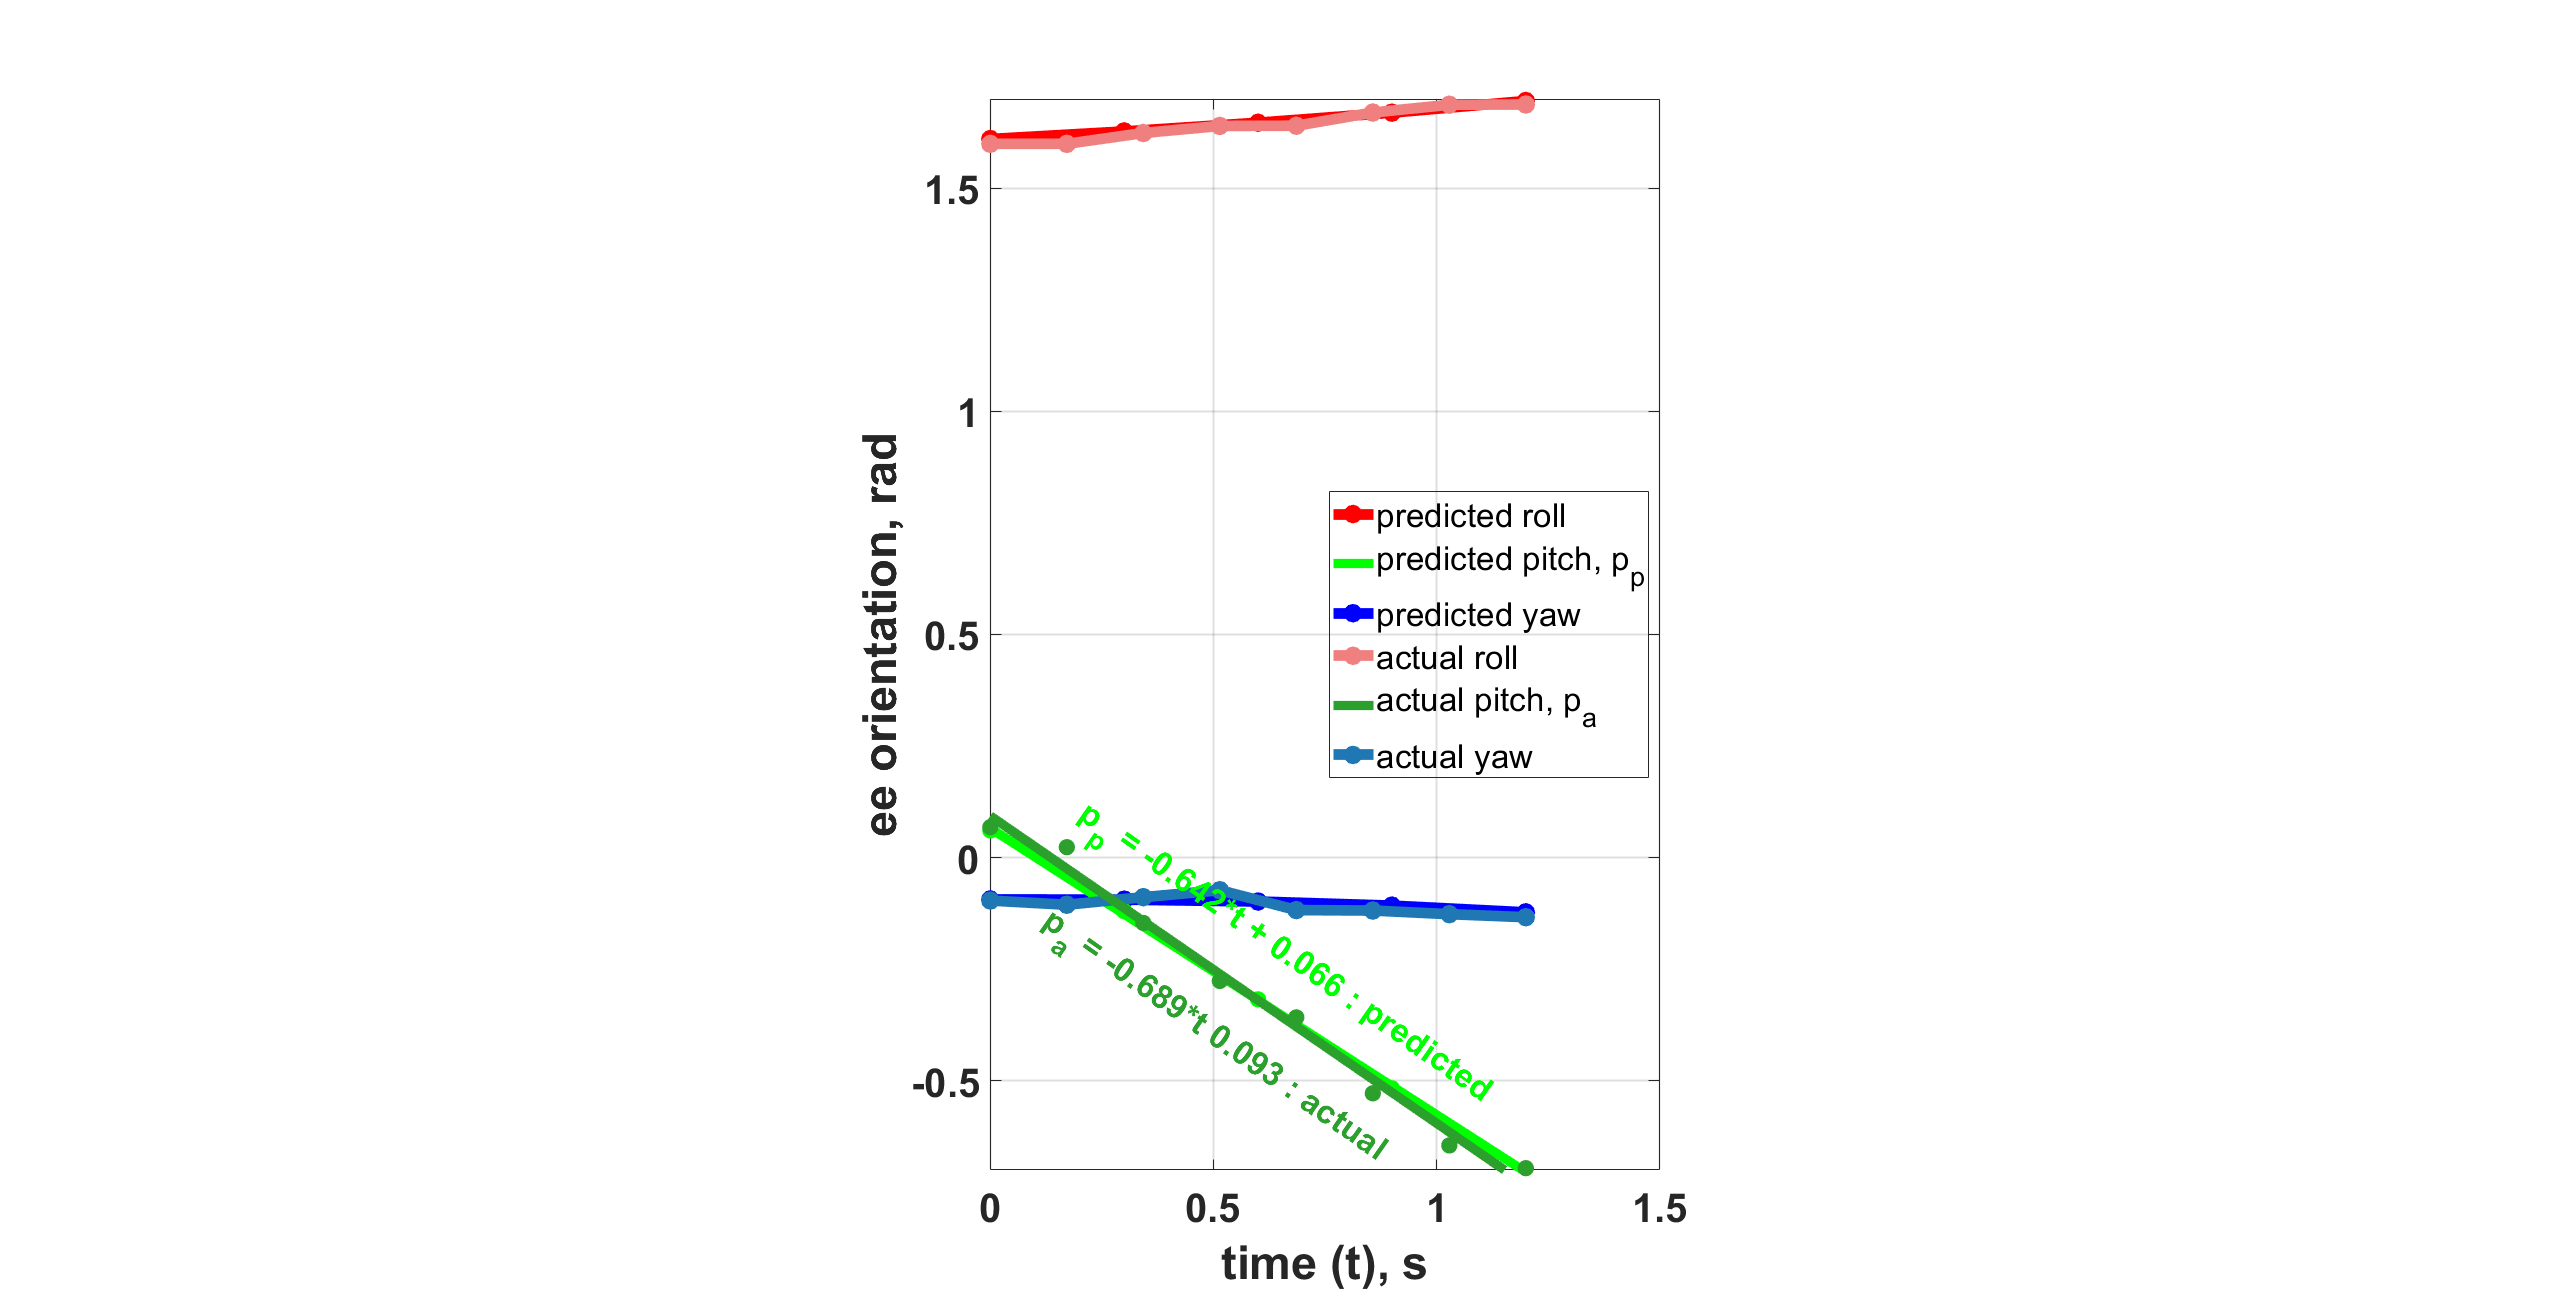
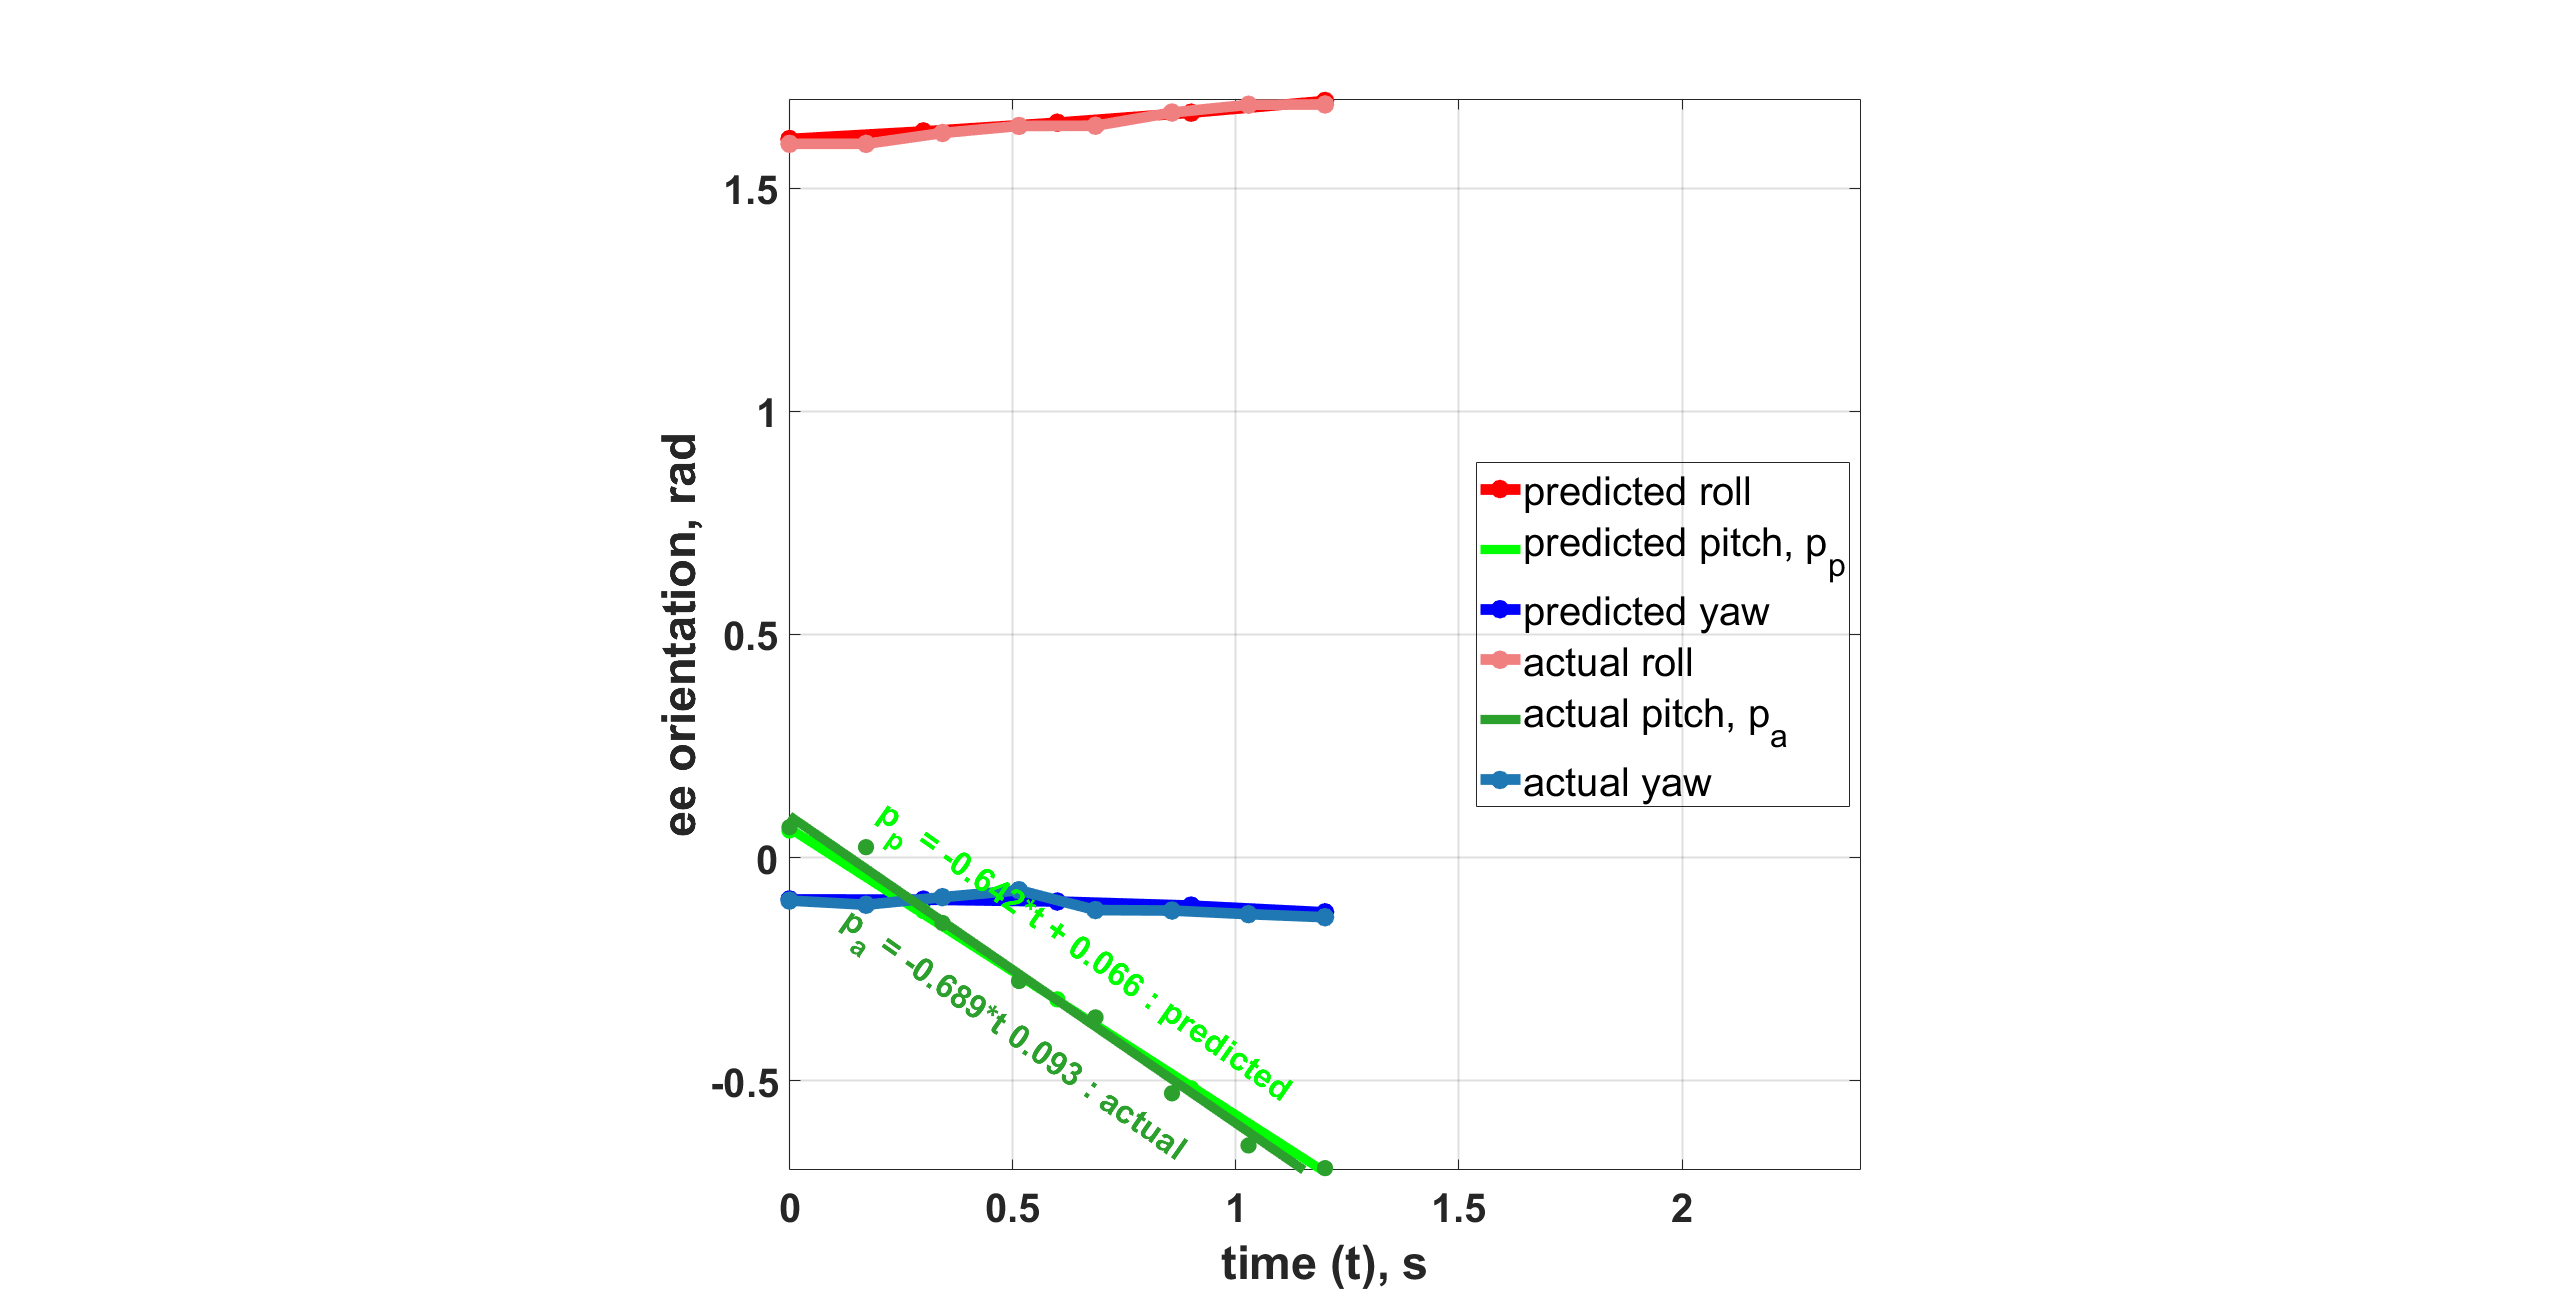
make orientation plot crop similar to other cases

diff --git a/real_robot_data_plots_and_demos/orientation_experiments/valve_turn_case_2/ee_position_and_joint_states_plotter.m b/real_robot_data_plots_and_demos/orientation_experiments/valve_turn_case_2/ee_position_and_joint_states_plotter.m
@@ -411,7 +411,7 @@ ax_ee_traj_error_final.GridLineWidth = grid_lw;
 % Set fontsizes for various plot parameters
 title_fontsize = 35;
 label_fontsize = 35;
-legend_fontsize = 25;
+legend_fontsize = 30;
 tick_fontsize = 30;
 grid_lw = 1.5;
 % Plot
@@ -464,7 +464,7 @@ pbaspect([1 1 1])
 
 % Add grid
 grid on
-xlim([0 1.5])
+xlim([0 2.4])
 ylim([-0.7 1.7])
 
 xlabel(ax_ee_or, 'time (t), s');
